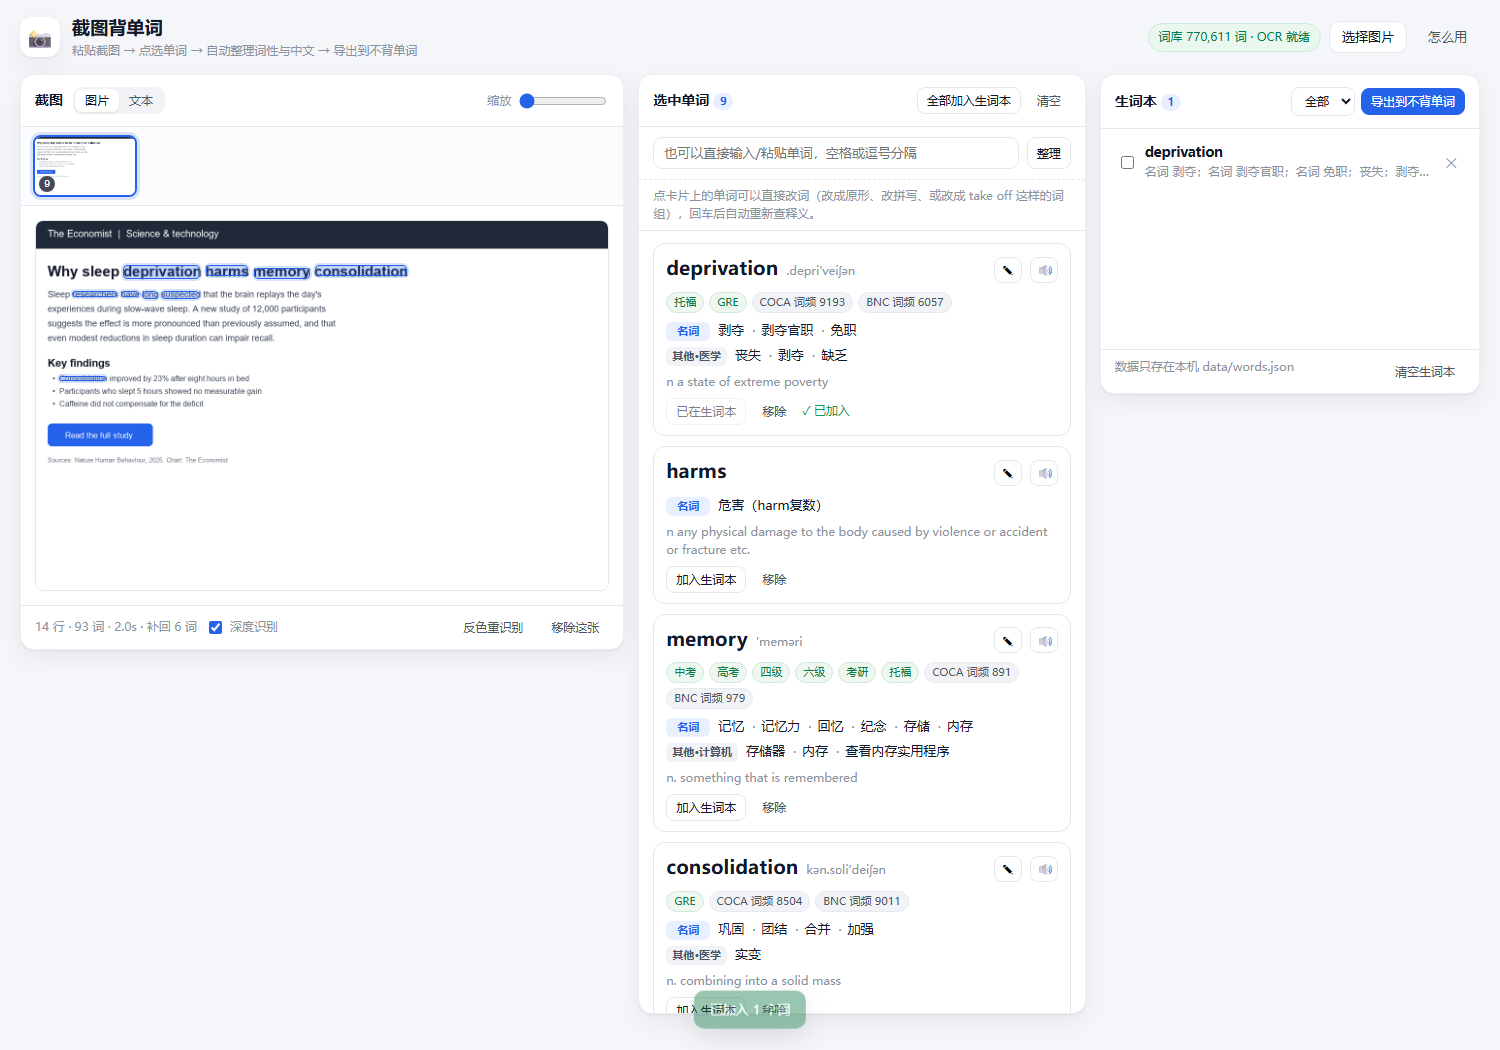
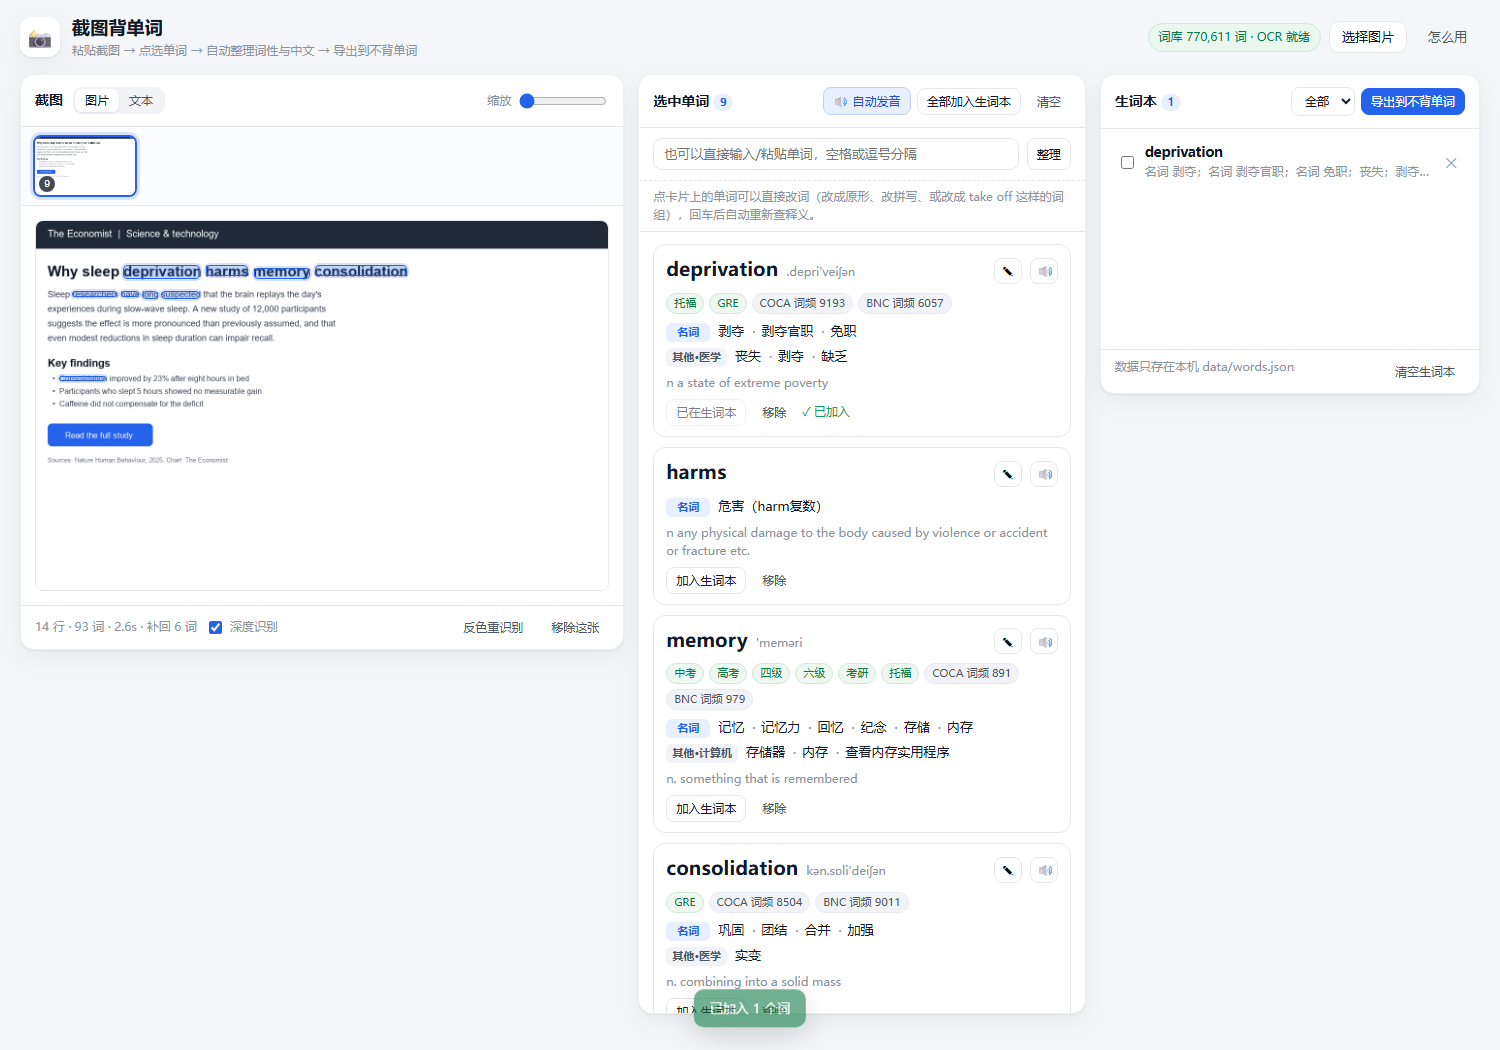
Pronounce a word as soon as it is picked
- speakWord() now picks an English voice (Google US English / Samantha / Microsoft
  Aria / any en-*), cancels the previous utterance so rapid picks read the newest
  word, and can run silently so auto-speech never spams error toasts
- addWords() speaks the first newly picked word; a multi-word drag only reads the
  first one to avoid a machine-gun effect; renaming (including auto-corrected
  spellings) also reads the new word so you can hear what it became
- New "🔊 自动发音" toggle in the picked-words header (aria-pressed, .btn.on style),
  persisted in localStorage (snap-vocab:auto-speak); manual 🔊 on each card stays
- Tests: both e2e suites stub speechSynthesis/SpeechSynthesisUtterance and assert
  the spoken word list (desktop 72 checks incl. toggle on/off + persistence,
  iPad 20 checks incl. tap-to-speak and the toggle being visible on the tablet)
- Docs and landing page updated (new PRONOUNCE feature card, renumbered)

Changed region(s): [[0.4293, 0.0914, 0.7053, 1.0], [0.644, 0.7924, 0.7053, 0.8229], [0.644, 0.6095, 0.6747, 0.6705]]

diff --git a/public/app.js b/public/app.js
@@ -55,7 +55,11 @@ const state = {
   mobilePane: 'shot',
   /** 当前是否是「窄屏（iPad/手机）标签式布局」 */
   compact: false,
+  /** 选中单词时自动朗读（默认开，可关掉，记在 localStorage） */
+  autoSpeak: true,
 };
+
+const AUTO_SPEAK_KEY = 'snap-vocab:auto-speak';
 
 /* ------------------------------ 通用 ------------------------------ */
 
@@ -579,6 +583,9 @@ function addWords(words, { silent = false } = {}) {
   renderCards();
   syncHighlights();
   void ensureLookup(fresh.map((item) => item.word));
+
+  // 选中就朗读：一次点一个词时读这个词；一次拖选/粘贴一批时读这批的第一个，避免连珠炮
+  if (state.autoSpeak) speakWord(fresh[0].word, { silent: true });
 }
 
 async function ensureLookup(words) {
@@ -683,6 +690,7 @@ async function renamePick(oldKey, rawWord, options = {}) {
       state.results.delete(oldKey);
       renderCards();
       await ensureLookup([word]);
+      if (state.autoSpeak) speakWord(word, { silent: true });
     } else {
       renderCards();
     }
@@ -728,6 +736,8 @@ async function renamePick(oldKey, rawWord, options = {}) {
   renderOverlay(); // 截图上的高亮随 key 变化自然消失
   syncHighlights();
   await ensureLookup([word]);
+  // 改完词也读一遍，确认改对了（自动纠错后的正确读音尤其有用）
+  if (state.autoSpeak) speakWord(word, { silent: true });
   if (correction) {
     toast(`已自动纠正拼写：${correction.from} → ${correction.to}`, 'ok');
   }
@@ -1070,16 +1080,59 @@ function renderCards() {
   updateTabCounts();
 }
 
-function speakWord(word) {
-  if (!('speechSynthesis' in window)) {
-    toast('这个浏览器不支持朗读', 'error');
+/** 挑一个英语音色（Chrome/Edge 上常见的是 Google US English / Microsoft 英文音色，iPad 是 Samantha）。 */
+function pickEnglishVoice() {
+  if (!('speechSynthesis' in window)) return null;
+  let voices = [];
+  try {
+    voices = window.speechSynthesis.getVoices?.() ?? [];
+  } catch {
+    voices = [];
+  }
+  if (!voices.length) return null;
+  const preferred = ['Google US English', 'Samantha', 'Microsoft Aria', 'Microsoft Zira', 'Alex'];
+  for (const name of preferred) {
+    const hit = voices.find((voice) => String(voice.name).includes(name));
+    if (hit) return hit;
+  }
+  return voices.find((voice) => /^en([-_]|$)/i.test(String(voice.lang))) ?? null;
+}
+
+/** 朗读一个单词。silent=true 时（自动发音）不弹错误提示，避免连点刷屏。 */
+function speakWord(word, { silent = false } = {}) {
+  if (!word) return;
+  if (!('speechSynthesis' in window) || typeof SpeechSynthesisUtterance !== 'function') {
+    if (!silent) toast('这个浏览器不支持朗读', 'error');
     return;
   }
-  const utterance = new SpeechSynthesisUtterance(word);
-  utterance.lang = 'en-US';
-  utterance.rate = 0.92;
-  window.speechSynthesis.cancel();
-  window.speechSynthesis.speak(utterance);
+  try {
+    const utterance = new SpeechSynthesisUtterance(word);
+    utterance.lang = 'en-US';
+    utterance.rate = 0.92;
+    const voice = pickEnglishVoice();
+    if (voice) utterance.voice = voice;
+    // 先取消上一句：连点时始终读最新的那个词
+    window.speechSynthesis.cancel();
+    window.speechSynthesis.speak(utterance);
+  } catch {
+    if (!silent) toast('朗读失败：这个浏览器可能禁用了语音', 'error');
+  }
+}
+
+/** 自动发音开关（记在 localStorage，刷新后保持）。 */
+function setAutoSpeak(on) {
+  state.autoSpeak = Boolean(on);
+  try {
+    localStorage.setItem(AUTO_SPEAK_KEY, state.autoSpeak ? '1' : '0');
+  } catch {
+    /* 隐私模式下 localStorage 可能不可写，忽略 */
+  }
+  const button = $('#btnAutoSpeak');
+  if (button) {
+    button.classList.toggle('on', state.autoSpeak);
+    button.setAttribute('aria-pressed', String(state.autoSpeak));
+    button.title = state.autoSpeak ? '选中单词时自动朗读（点击关闭）' : '自动朗读已关闭（点击打开）';
+  }
 }
 
 async function lookupOnline(key, button) {
@@ -1413,6 +1466,7 @@ function bindEvents() {
 
   $('#btnClearPicks').addEventListener('click', clearPicks);
   $('#btnAddAll').addEventListener('click', () => void addAllToBook());
+  $('#btnAutoSpeak').addEventListener('click', () => setAutoSpeak(!state.autoSpeak));
   $('#btnClearShot').addEventListener('click', clearShot);
   $('#btnRetryInvert').addEventListener('click', () => void runOcr(!state.image.inverted));
 
@@ -1450,6 +1504,12 @@ function bindEvents() {
 async function init() {
   bindEvents();
   applyCompactLayout();
+  // 自动发音：默认开，上次关掉的保持关
+  try {
+    setAutoSpeak(localStorage.getItem(AUTO_SPEAK_KEY) !== '0');
+  } catch {
+    setAutoSpeak(true);
+  }
   await refreshHealth();
   try {
     state.config = await api('/api/config');
@@ -1507,4 +1567,6 @@ window.__snap = {
   removeImage,
   setMobilePane,
   applyCompactLayout,
+  setAutoSpeak,
+  speakWord,
 };

diff --git a/index.html b/index.html
@@ -492,22 +492,27 @@
             <p>卡片上的单词可以直接改；拼写错误的词会按编辑距离自动纠正到词库里的正确拼法，并保留撤销。</p>
           </article>
           <article class="card">
-            <span class="card-number">05 / WORDBOOK</span>
+            <span class="card-number">05 / PRONOUNCE</span>
+            <h3>选中就发音</h3>
+            <p>点到哪个词就读哪个词，用系统自带英文语音、不联网；可一键关掉，卡片上的喇叭也能单独重读。</p>
+          </article>
+          <article class="card">
+            <span class="card-number">06 / WORDBOOK</span>
             <h3>生词本留在本地</h3>
             <p>生词写入 data/words.json（每次保存留一份 .bak），可标记已背、筛选并随时导出。</p>
           </article>
           <article class="card">
-            <span class="card-number">06 / EXPORT</span>
+            <span class="card-number">07 / EXPORT</span>
             <h3>生成自制词书</h3>
             <p>导出纯单词 TXT、单词加释义或 CSV，走不背单词的官方导入路径。</p>
           </article>
           <article class="card">
-            <span class="card-number">07 / PRIVACY</span>
+            <span class="card-number">08 / PRIVACY</span>
             <h3>截图不上传</h3>
             <p>服务只监听 127.0.0.1，截图交给本地识别进程，不发送到第三方。</p>
           </article>
           <article class="card">
-            <span class="card-number">08 / OPEN SOURCE</span>
+            <span class="card-number">09 / OPEN SOURCE</span>
             <h3>源码可审查</h3>
             <p>前后端源码、测试、OCR 流程和词典构建脚本全部开放。</p>
           </article>
@@ -530,7 +535,7 @@
           </article>
           <article class="step">
             <strong>点选需要的单词</strong>
-            <span>新选中的词排在最前面；选错或拼错会自动纠正，断开的单词会合回一个。</span>
+            <span>新选中的词排在最前面，选中就朗读发音；选错或拼错会自动纠正，断开的单词会合回一个。</span>
           </article>
           <article class="step">
             <strong>导出到不背单词</strong>

diff --git a/public/index.html b/public/index.html
@@ -69,6 +69,7 @@
         <div class="pane-head">
           <h2>选中单词 <span id="pickedCount" class="badge">0</span></h2>
           <div class="pane-actions">
+            <button id="btnAutoSpeak" class="btn tiny" type="button" aria-pressed="true" title="选中单词时自动朗读（可关掉）">🔊 自动发音</button>
             <button id="btnAddAll" class="btn tiny" type="button">全部加入生词本</button>
             <button id="btnClearPicks" class="btn tiny ghost" type="button">清空</button>
           </div>
@@ -163,6 +164,7 @@
           <li>识别完成后，在截图上**点单词**选区；点第二下取消。也可以在「文本」标签里拖选一整句。</li>
           <li>可以连续贴多张截图：每张图有自己的识别结果和选词，点下方缩略图切换，切回来还在。</li>
           <li>卡片会给出音标、按词性分组的中文释义、考试标签和原形（如 screens → screen）。</li>
+          <li>选中单词会自动朗读（右上角「🔊 自动发音」可关掉，设置会记住）；卡片右上角的 🔊 也可以手动读一遍。</li>
           <li>点「加入生词本」，攒够一批后点「导出到不背单词」，复制或下载 txt。</li>
           <li>浏览器打开 bbdc.cn 登录 → 左上角「自制词书」上传 txt → 手机 App 里「词书 / 换本词书 → 自制」就能背了。</li>
         </ol>

diff --git a/public/styles.css b/public/styles.css
@@ -91,6 +91,8 @@ ul { padding: 0; list-style: none; }
 .btn.tiny { padding: 5px 9px; font-size: 12px; border-radius: 8px; }
 .btn:disabled { opacity: 0.55; cursor: not-allowed; }
 .btn.danger { color: var(--danger); border-color: #f3d1d1; }
+/* 开关型按钮（自动发音等）打开时的样子 */
+.btn.on { background: var(--accent-soft); border-color: #bfd0f7; color: #1d4ed8; }
 
 /* ---------- 三栏布局 ---------- */
 .layout {
